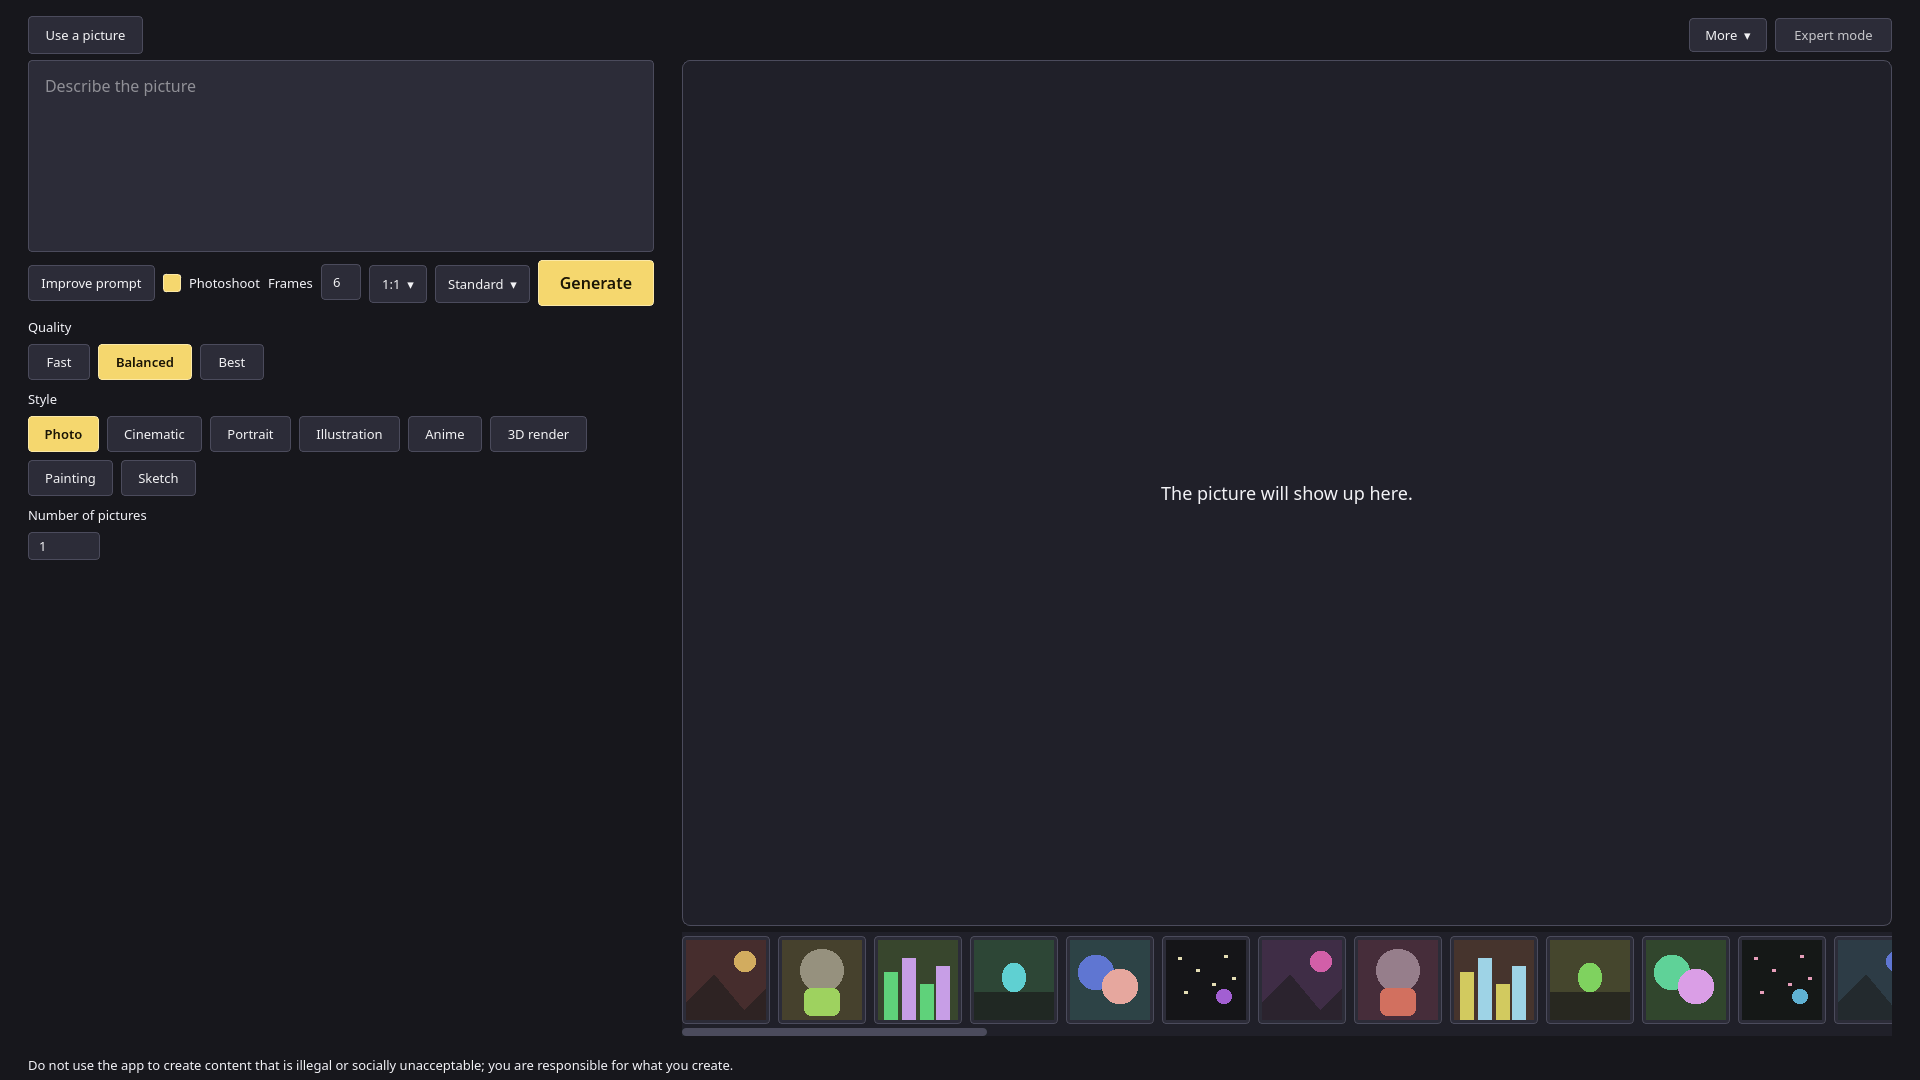
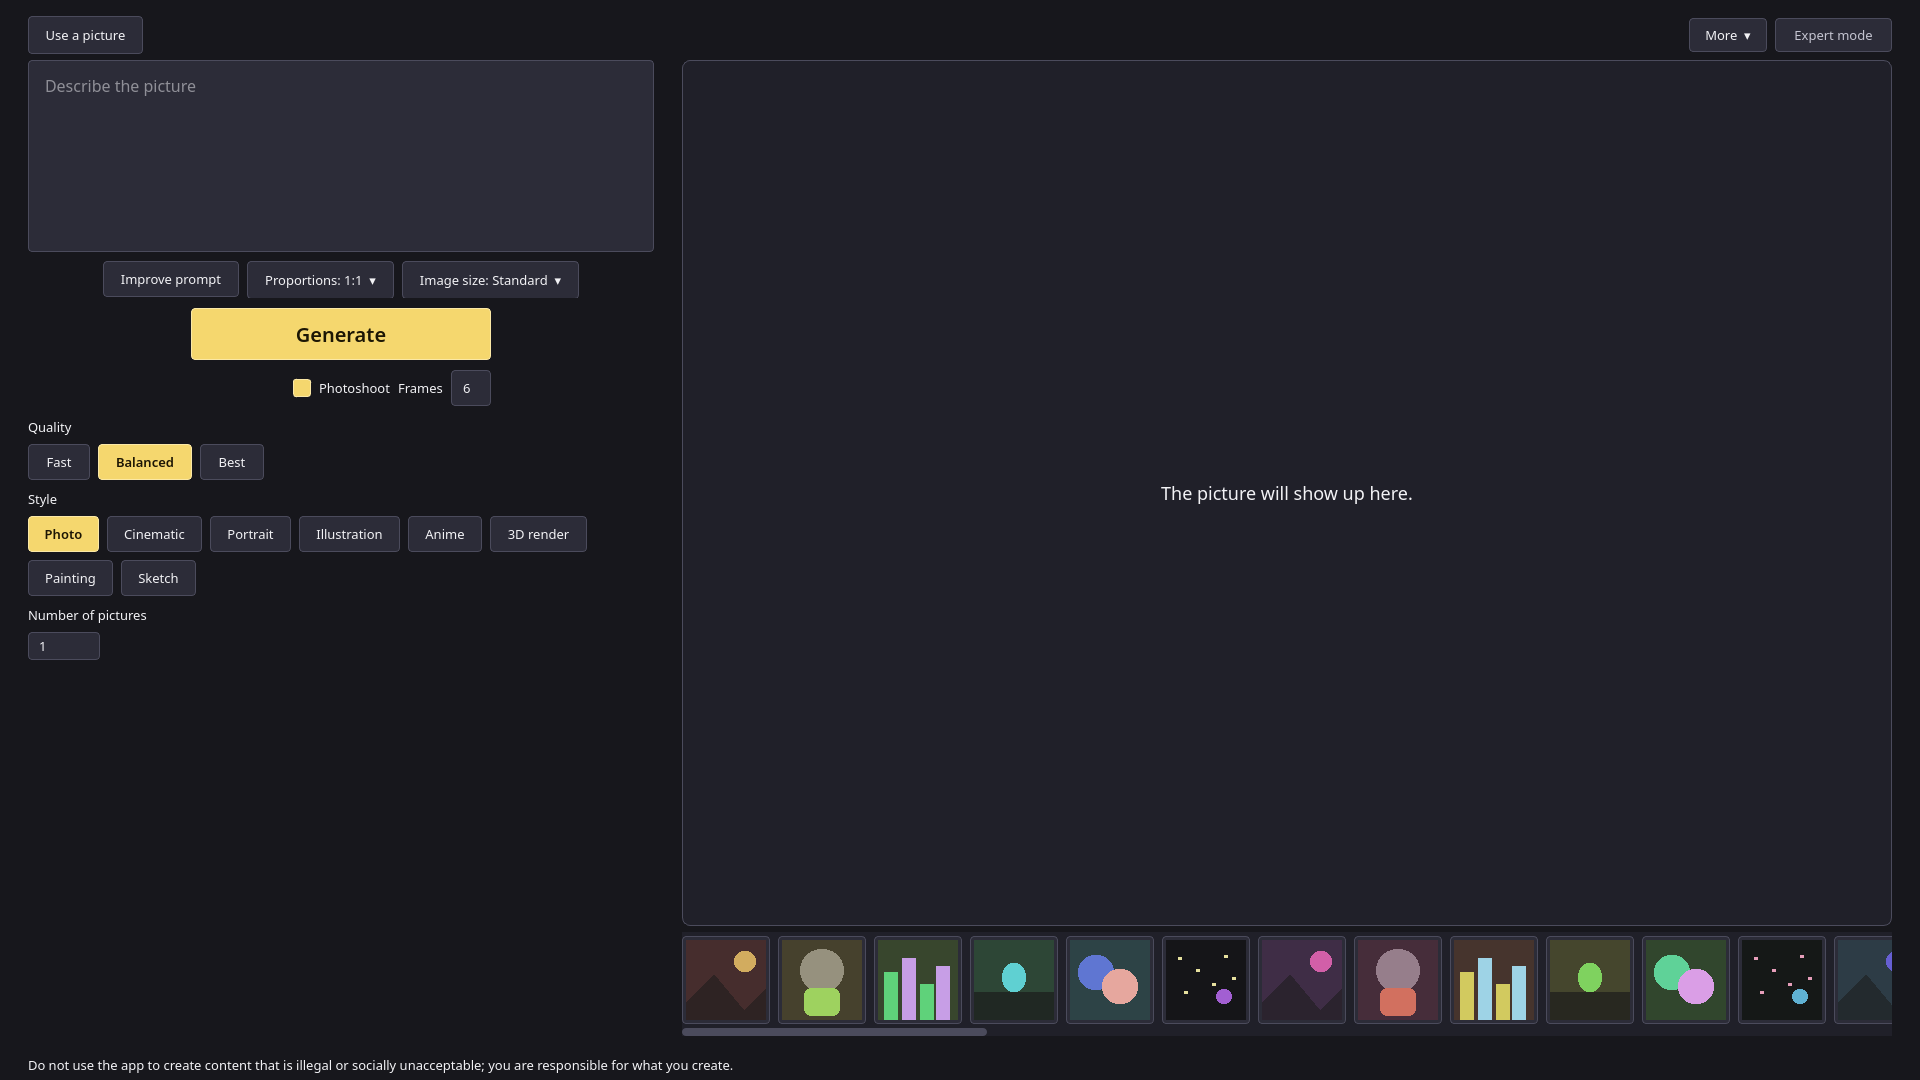
UI polish: a large centred Generate with Photoshoot under it.
Improve, Proportions and Image size share a centred line that still wraps
when narrow. Generate is larger (52 px tall, 20 px text, at least 300 px
wide) and centred below them. The Photoshoot checkbox is centred under
Generate, with Frames on its right; equal side columns keep the checkbox
on the centre line whether Frames shows or not. Behaviour is unchanged.

Tests cover the centred options line, Generate under it, and the checkbox
below and centred on Generate in EN and RU at 1920x1080. Screenshots are
re-rendered in EN and RU; a DPR 2 render shows no clipped labels.

Changed region(s): [[0.0, 0.2139, 0.3438, 0.6111]]

diff --git a/canvas/ui/action_row.py b/canvas/ui/action_row.py
@@ -1,14 +1,19 @@
-"""The action row under the prompt: Improve with its back segment, Photoshoot,
-Proportions, Image size and Generate. The row wraps when the panel is narrow."""
+"""The action block under the prompt.
+
+Improve with its back segment, Proportions and Image size share a centred
+line that wraps when the panel is narrow. The large Generate button sits
+centred under them, and the Photoshoot option is centred under Generate with
+Frames beside it."""
 from __future__ import annotations
 
-from PySide6.QtCore import QSize
+from PySide6.QtCore import QSize, Qt
 from PySide6.QtGui import QAction, QActionGroup
 from PySide6.QtWidgets import (
     QHBoxLayout,
     QMenu,
     QPushButton,
     QSizePolicy,
+    QVBoxLayout,
     QWidget,
 )
 from voxprint_common.i18n import tr
@@ -18,43 +23,78 @@ from canvas.app.i18n import text
 from canvas.ui.theme import BUTTON_RADIUS
 
 HEIGHT = 36
-GENERATE_HEIGHT = 40
-GENERATE_MIN = 180
-GENERATE_COMPACT = 96
+GENERATE_HEIGHT = 52
+GENERATE_FONT = 20
+GENERATE_MIN = 300
+GENERATE_PAD = 32
 
 
 def build(window, parts) -> QWidget:
-    """Make the row and keep the shared size and output chips as hidden state holders."""
+    """Make the block and keep the shared size and output chips as hidden state holders."""
     from canvas.ui.shell_chrome import _Flow
 
     host = QWidget()
     host.setObjectName("actionRow")
+    column = QVBoxLayout(host)
+    column.setContentsMargins(0, 0, 0, 0)
+    column.setSpacing(10)
+    options = QWidget()
+    options.setObjectName("actionOptions")
     flow = _Flow()
     flow.setSpacing(8)
-    host.setLayout(flow)
+    flow.centre = True
+    options.setLayout(flow)
     policy = QSizePolicy(QSizePolicy.Policy.Expanding, QSizePolicy.Policy.Preferred)
     policy.setHeightForWidth(True)
-    host.setSizePolicy(policy)
+    options.setSizePolicy(policy)
     flow.addWidget(_improve_split(window, parts["improve"], parts["revert"]))
-    mode = parts["mode"]
-    if mode is not None:
-        mode.setProperty("chip", False)
-        mode.setFixedHeight(HEIGHT)
-        flow.addWidget(mode)
-        for key in ("frames_label", "frames"):
-            if parts[key] is not None:
-                parts[key].setFixedHeight(HEIGHT if key == "frames" else parts[key].sizeHint().height())
-                flow.addWidget(parts[key])
     flow.addWidget(_proportions(window))
     flow.addWidget(_image_size(window))
+    column.addWidget(options)
     generate = parts["generate"]
     generate.setMinimumSize(GENERATE_MIN, GENERATE_HEIGHT)
-    generate.setProperty("flowFill", True)
-    # The flow may trim Generate down to this floor so the row keeps one line.
-    generate.setProperty("flowFloor", GENERATE_COMPACT)
-    flow.addWidget(generate)
+    generate.setFixedHeight(GENERATE_HEIGHT)
+    generate.setSizePolicy(QSizePolicy.Policy.Minimum, QSizePolicy.Policy.Fixed)
+    # Over the shared theme: only the size changes, the colours stay.
+    generate.setStyleSheet(
+        f"QPushButton#generate {{ font-size: {GENERATE_FONT}px; padding: 8px {GENERATE_PAD}px; }}"
+    )
+    column.addWidget(generate, 0, Qt.AlignmentFlag.AlignHCenter)
+    mode = parts["mode"]
+    if mode is not None:
+        column.addWidget(_photoshoot_line(mode, parts["frames_label"], parts["frames"]))
     window._action_row = host
+    window._action_options = options
     return host
+
+
+def _photoshoot_line(mode, label, frames) -> QWidget:
+    """The Photoshoot checkbox centred on Generate, with Frames on its right."""
+    line = QWidget()
+    line.setObjectName("photoshootOption")
+    row = QHBoxLayout(line)
+    row.setContentsMargins(0, 0, 0, 0)
+    row.setSpacing(8)
+    mode.setProperty("chip", False)
+    mode.setFixedHeight(HEIGHT)
+    side = QWidget()
+    side.setObjectName("photoshootFramesBox")
+    beside = QHBoxLayout(side)
+    beside.setContentsMargins(0, 0, 0, 0)
+    beside.setSpacing(8)
+    for widget in (label, frames):
+        if widget is not None:
+            widget.setFixedHeight(HEIGHT if widget is frames else widget.sizeHint().height())
+            beside.addWidget(widget)
+    beside.addStretch(1)
+    # Two equal sides keep the checkbox on the centre line whether Frames shows or not.
+    balance = QWidget()
+    for widget in (balance, side):
+        widget.setSizePolicy(QSizePolicy.Policy.Ignored, QSizePolicy.Policy.Preferred)
+    row.addWidget(balance, 1)
+    row.addWidget(mode)
+    row.addWidget(side, 1)
+    return line
 
 
 def _improve_split(window, improve, revert) -> QWidget:
@@ -208,8 +248,8 @@ def _fill_image_size(window, menu) -> None:
 
 
 def sync(window) -> None:
-    """Hide the old rows, refresh the two menu labels and the row height."""
-    host = getattr(window, "_action_row", None)
+    """Hide the old rows, refresh the two menu labels, Generate's width and the row height."""
+    host = getattr(window, "_action_options", None)
     if host is None:
         return
     root = window.view.root
@@ -254,17 +294,17 @@ def sync(window) -> None:
             button.setAccessibleName(name)
             advance = button.fontMetrics().horizontalAdvance(button.text())
             button.setMinimumWidth(advance + 36)
-        generate = host.findChild(QPushButton, "generate")
-        if generate is not None:
-            generate.ensurePolished()
-            floor = max(GENERATE_COMPACT, generate.fontMetrics().horizontalAdvance(generate.text()) + 32)
-            floor = floor if compact else GENERATE_MIN
-            generate.setProperty("flowFloor", floor)
-            generate.setMinimumWidth(floor)
         _allow_trim(host, compact)
         if one_line(host, width):
             break
     host.setMinimumHeight(host.layout().heightForWidth(width))
+    generate = window._action_row.findChild(QPushButton, "generate")
+    if generate is not None:
+        generate.ensurePolished()
+        # As with Improve, the shared stylesheet resets the height on polish.
+        generate.setFixedHeight(GENERATE_HEIGHT)
+        need = generate.fontMetrics().horizontalAdvance(generate.text()) + 2 * GENERATE_PAD + 4
+        generate.setFixedWidth(min(width, max(GENERATE_MIN, need)))
 
 
 TRIM_PAD = 12
@@ -281,7 +321,7 @@ def _allow_trim(host: QWidget, allowed: bool) -> None:
     for index in range(flow.count()):
         item = flow.itemAt(index)
         widget = item.widget() if item is not None else None
-        if widget is None or widget.isHidden() or widget.objectName() == "generate":
+        if widget is None or widget.isHidden():
             continue
         if not allowed:
             widget.setProperty("flowFloor", None)

diff --git a/canvas/ui/shell_chrome.py b/canvas/ui/shell_chrome.py
@@ -63,7 +63,7 @@ SHOT_HEIGHT = 800
 
 
 from canvas.ui.prompt_row import arrange as arrange_prompt  # noqa: E402
-from canvas.ui.action_row import sync as sync_actions  # noqa: E402
+from canvas.ui.action_row import GENERATE_FONT, GENERATE_PAD, sync as sync_actions  # noqa: E402
 from canvas.ui.result_bar import wrap as wrap_result  # noqa: E402
 
 
@@ -928,6 +928,8 @@ class _Flow(QLayout):
         # A narrow side panel lets every row wrap, with the row name on its own line.
         self.may_wrap = False
         self.label_above = False
+        # Each line sits in the middle of the row instead of at its left edge.
+        self.centre = False
 
     def addItem(self, item):  # noqa: N802
         self._items.append(item)
@@ -1028,11 +1030,10 @@ class _Flow(QLayout):
         y = 0
         for index, (row, row_height) in enumerate(lines):
             x = 0
+            if self.centre:
+                used = sum(entry[1] for entry in row) + spacing * max(0, len(row) - 1)
+                x = max(0, (inner - used) // 2)
             for item, item_width, item_height in row:
-                widget = item.widget()
-                if widget is not None and widget.property("flowFill"):
-                    # The main action takes the rest of its line.
-                    item_width = max(item_width, inner - x)
                 if rect is not None:
                     offset = (row_height - item_height) // 2
                     item.setGeometry(QRect(origin_x + x, origin_y + y + offset, item_width, item_height))
@@ -1158,8 +1159,8 @@ def _fit_text(button):
     font.setWeight(QFont.Weight.DemiBold)
     pad = 16
     if button.objectName() == "generate":
-        font.setPixelSize(16)
-        pad = 22
+        font.setPixelSize(GENERATE_FONT)
+        pad = GENERATE_PAD
     elif button.property("chip"):
         # Padding plus the border, so a checked (weight 600) label is not cut.
         pad = 18

diff --git a/tests/test_photoshoot_window.py b/tests/test_photoshoot_window.py
@@ -84,6 +84,38 @@ def test_the_frame_count_shows_its_widest_value(app, home: Path, language: str) 
     assert room >= need
 
 
+@pytest.mark.parametrize("language", ["en", "ru"])
+def test_the_option_sits_centred_under_generate(app, home: Path, language: str) -> None:
+    set_language(language)
+    window = _window(home, lambda job, inputs: rgb())
+    window.setFixedSize(1920, 1080)
+    window.show()
+    for _ in range(3):
+        app.processEvents()
+    mode = window.findChild(QCheckBox, "photoshootMode")
+    generate = window.findChild(QPushButton, "generate")
+    panel = window._action_row
+
+    def box(widget):
+        return widget.geometry().translated(widget.parentWidget().mapTo(panel, widget.parentWidget().rect().topLeft()))
+
+    for ticked in (False, True):
+        if mode.isChecked() != ticked:
+            mode.click()
+            for _ in range(3):
+                app.processEvents()
+        button = box(generate)
+        option = box(mode)
+        assert option.top() >= button.bottom(), (ticked, option, button)
+        assert abs(option.center().x() - button.center().x()) <= 2, (ticked, option, button)
+        # Generate is centred in the panel and keeps its whole label.
+        assert abs(button.center().x() - panel.rect().center().x()) <= 2
+        assert generate.fontMetrics().horizontalAdvance(generate.text()) + 16 <= generate.width()
+    frames = box(window.findChild(QSpinBox, "photoshootFrames"))
+    assert frames.left() > option.right() and frames.right() <= panel.width()
+    assert abs(frames.center().y() - option.center().y()) <= 2
+
+
 def test_progress_uses_the_chosen_frame_count(app, home: Path, monkeypatch) -> None:
     def runner(job, inputs):
         del job, inputs

diff --git a/tests/test_gui_rule.py b/tests/test_gui_rule.py
@@ -64,11 +64,21 @@ def test_the_action_row_is_one_line_at_1280(window):
     for button in _shown(window._action_row, QPushButton) + _shown(window._lora_picker, QPushButton):
         assert QFontInfo(button.font()).family() == FAMILY, button.objectName()
     row = window._action_row
-    buttons = _shown(row, QPushButton)
+    options = window._action_options
+    buttons = _shown(options, QPushButton)
     centres = {b.mapTo(row, b.rect().center()).y() for b in buttons}
     sizes = [(b.objectName(), b.width(), b.minimumWidth(), b.sizeHint().width(), b.property("flowFloor"),
               b.fontMetrics().horizontalAdvance(b.text()), b.font().family()) for b in buttons]
     assert max(centres) - min(centres) <= 4, (row.width(), sizes)
+    # The line is centred, and the large Generate sits centred under it.
+    left = min(b.mapTo(row, b.rect().topLeft()).x() for b in buttons)
+    right = max(b.mapTo(row, b.rect().topRight()).x() for b in buttons)
+    assert abs((left + right) / 2 - row.rect().center().x()) <= 4, (left, right, row.width())
+    generate = row.findChild(QPushButton, "generate")
+    top = generate.mapTo(row, generate.rect().topLeft())
+    assert top.y() > max(b.mapTo(row, b.rect().bottomLeft()).y() for b in buttons)
+    assert abs(generate.mapTo(row, generate.rect().center()).x() - row.rect().center().x()) <= 2
+    assert generate.height() > max(b.height() for b in buttons)
 
 
 def test_the_lora_row_is_one_line_and_flush_with_the_prompt(window):

diff --git a/canvas/ui/photoshoot_bar.py b/canvas/ui/photoshoot_bar.py
@@ -1,6 +1,6 @@
 """Photoshoot option on the shared simple screen.
 
-The option sits beside Improve prompt. The shell Create button stays the
+The option sits centred under the Create button, which stays the
 primary action and runs the series while the option is on. The shot list is
 read-only. Cancel stops after the frame that already finished.
 """
